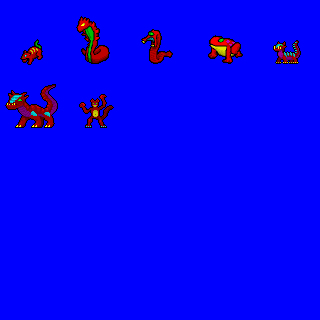
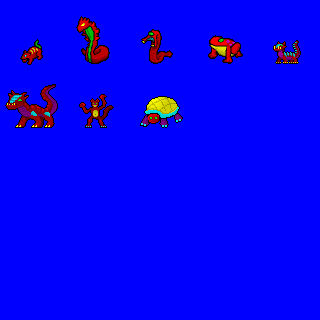
Added Puma and Luna II mecha

Changed region(s): [[0.4375, 0.2812, 0.5938, 0.4062]]

diff --git a/gears/geffects.py b/gears/geffects.py
@@ -16,6 +16,7 @@ from .tags import Skimming, Rolling
 
 MONSTER_LIST = ()
 
+
 #  *************************
 #  ***   Utility  Junk   ***
 #  *************************
@@ -525,10 +526,12 @@ class OriginSpotShotFactory(object):
 # A shot animation that also animates a return.
 class ReturnAnim(animobs.AnimOb):
     BASE_ANIM = SmallBullet
+    REVERSE_ON_RETURN = False
 
     def __init__(self, start_pos, end_pos, delay=0):
         self.going = self.BASE_ANIM(start_pos=start_pos, end_pos=end_pos, delay=0)
-        self.returning = self.BASE_ANIM(start_pos=end_pos, end_pos=start_pos, delay=0)
+        self.returning = self.BASE_ANIM(start_pos=end_pos, end_pos=start_pos, delay=0,
+                                        reverse_direction=self.REVERSE_ON_RETURN)
         self.children = list()
         self.delay = delay
         self.needs_deletion = False
@@ -602,6 +605,15 @@ class ReturningDeathwing(ReturnAnim):
     BASE_ANIM = FlyingDeathwing
 
 
+class ChainClawShot(animobs.ShotAnim):
+    DEFAULT_SPRITE_NAME = "anim_s_chainclaw.png"
+
+
+class ReturningChainClaw(ReturnAnim):
+    BASE_ANIM = ChainClawShot
+    REVERSE_ON_RETURN = True
+
+
 class JawShot(animobs.ShotAnim):
     DEFAULT_SPRITE_NAME = "anim_jaws.png"
     DEFAULT_SPEED = 0.3
@@ -671,9 +683,9 @@ class JumpModel(object):
             self.delay += -1
         elif self.itinerary:
             self.step += 1.0
-            px = self.step/self.num_steps
-            py = -4*px*px + 4*px
-            if self.step < self.num_steps/2:
+            px = self.step / self.num_steps
+            py = -4 * px * px + 4 * px
+            if self.step < self.num_steps / 2:
                 y_off = int((self.zenith - self.start_alt) * py)
             else:
                 y_off = int((self.zenith - self.final_alt) * py) - self.start_alt
@@ -682,7 +694,7 @@ class JumpModel(object):
             if not self.itinerary:
                 self.needs_deletion = True
                 self.model.pos = self.dest
-                self.model.offset_pos = (0,0)
+                self.model.offset_pos = (0, 0)
         else:
             self.needs_deletion = True
             self.model.pos = self.dest
@@ -1422,14 +1434,14 @@ class CallAnimalCompanion(effects.NoEffect):
         else:
             originator = camp.pc
             threat_bonus = random.randint(1, max(camp.pc.rank, 15))
-        threat_bonus += random.randint(1,20)
+        threat_bonus += random.randint(1, 20)
         candidates = list()
         for mon in MONSTER_LIST:
             if mon.can_be_pet and camp.pc_suits_map(mon, camp.scene.scale, camp.scene.environment):
-                candidates += [mon,] * len(mon.type_tags.intersection(self.monster_tags))
+                candidates += [mon, ] * len(mon.type_tags.intersection(self.monster_tags))
         if candidates:
             if len(candidates) > 10:
-                candidates = random.sample(candidates, len(candidates)//2)
+                candidates = random.sample(candidates, len(candidates) // 2)
             candidates.sort(key=lambda m: -m.threat)
             n = min(5, len(candidates))
             nupet = copy.deepcopy(random.choice(candidates[:n]))

diff --git a/pbge/scenes/animobs.py b/pbge/scenes/animobs.py
@@ -113,12 +113,15 @@ class ShotAnim(AnimOb):
     """An AnimOb which moves along a line."""
 
     def __init__(self, sprite_name=None, width=64, height=64, start_pos=(0, 0), end_pos=(0, 0), frame=0, speed=None,
-                 set_frame_offset=True, x_off=0, y_off=0, delay=0, is_transparent=False):
+                 set_frame_offset=True, x_off=0, y_off=0, delay=0, is_transparent=False, reverse_direction=False):
         super().__init__(sprite_name=sprite_name, width=width, height=height, pos=start_pos,
                          is_transparent=is_transparent)
 
         if set_frame_offset:
-            self.frame = frame + self.dir_frame_offset(self.isometric_pos(*start_pos), self.isometric_pos(*end_pos))
+            frame_offset = self.dir_frame_offset(self.isometric_pos(*start_pos), self.isometric_pos(*end_pos))
+            if reverse_direction:
+                frame_offset = (frame_offset + 4) % 8
+            self.frame = frame + frame_offset
         else:
             self.frame = frame
         self.counter = 0

diff --git a/game/exploration.py b/game/exploration.py
@@ -704,7 +704,7 @@ class Explorer(object):
                                 print("{}: {}/{}".format(thing, thing.faction, thing.scene.get_root_scene()))
 
                     elif gdi.unicode == "+" and pbge.util.config.getboolean("GENERAL", "dev_mode_on"):
-                        self.camp.pc.statline[gears.stats.Wildcraft] += 5
+                        self.camp.party.append(gears.selector.get_design_by_full_name("AEF-1A Luna II"))
 
                     elif gdi.unicode == "P" and pbge.util.config.getboolean("GENERAL", "dev_mode_on"):
                         for thing in self.camp.active_plots():

diff --git a/pbge/scenes/viewer.py b/pbge/scenes/viewer.py
@@ -567,8 +567,8 @@ class SceneView(object):
                             if len(mlist) > 1:
                                 mlist.sort(key=self.model_depth)
                             for m in mlist:
-                                mx, my = m.pos
-                                sx, sy = self.screen_coords(*m.pos)
+                                #mx, my = m.pos
+                                sx, sy = self.foot_coords(*m.pos)
                                 m.render((sx, sy), self)
 
 

diff --git a/history.md b/history.md
@@ -1,3 +1,4 @@
+* Added Puma and Luna II mecha
 * Most keyboard actions now use is_key_for_action method, may be changed in config.cfg
 * Added a bunch more monsters
 * Characters with Wildcraft >= 5 can call animal companions
@@ -11,6 +12,7 @@
 * Changed restore to restore_all in Bear Bastard's Mecha Camp and Winter Mocha
 * Text input widget now uses TextInput event
 * Lancemates bring their pets with them when they join/leave the party
+* Characters can have one pet
 
 v0.922 August 13 2022
 * Fixed a bug in one of the lancemate plots
